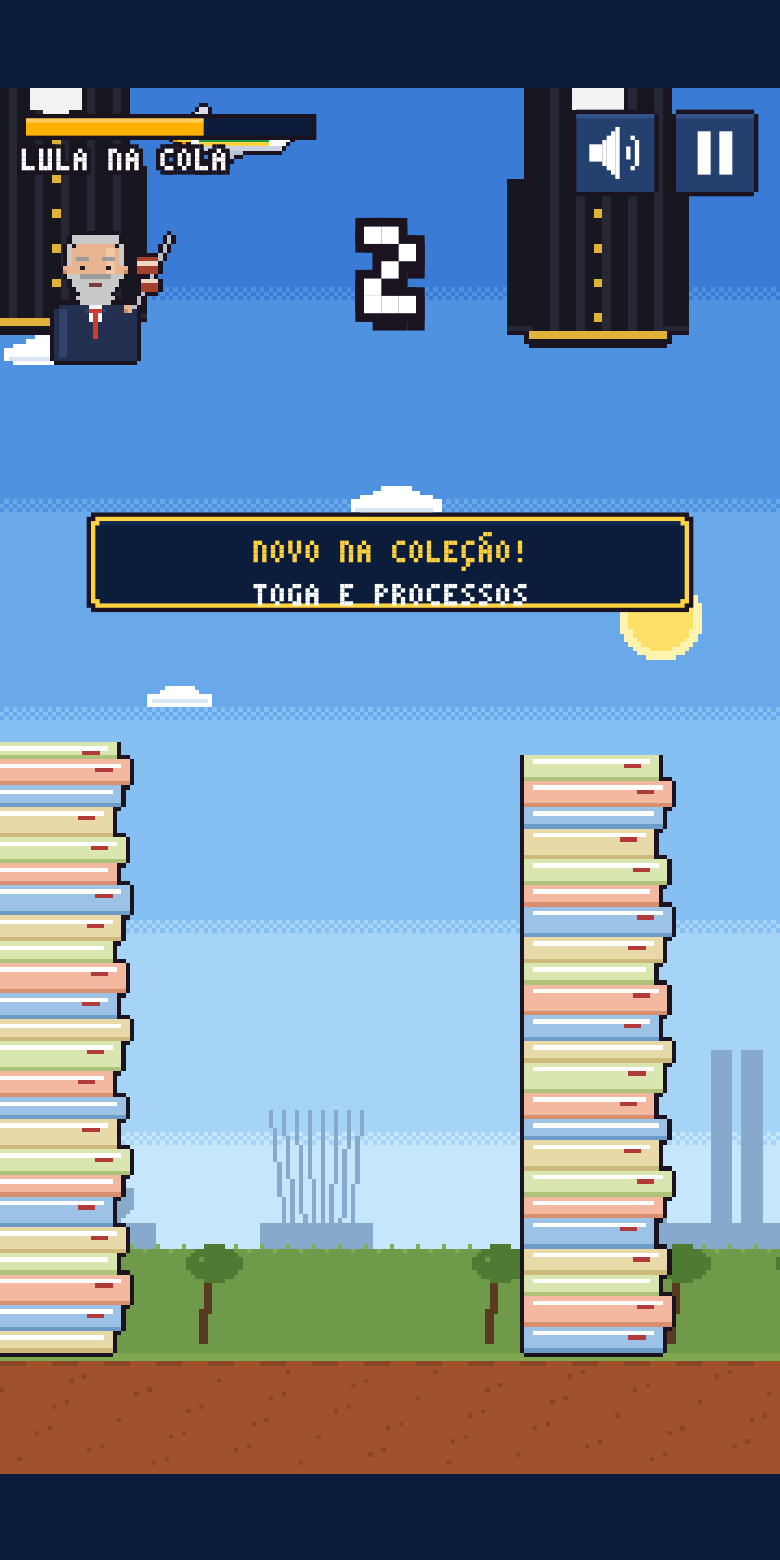
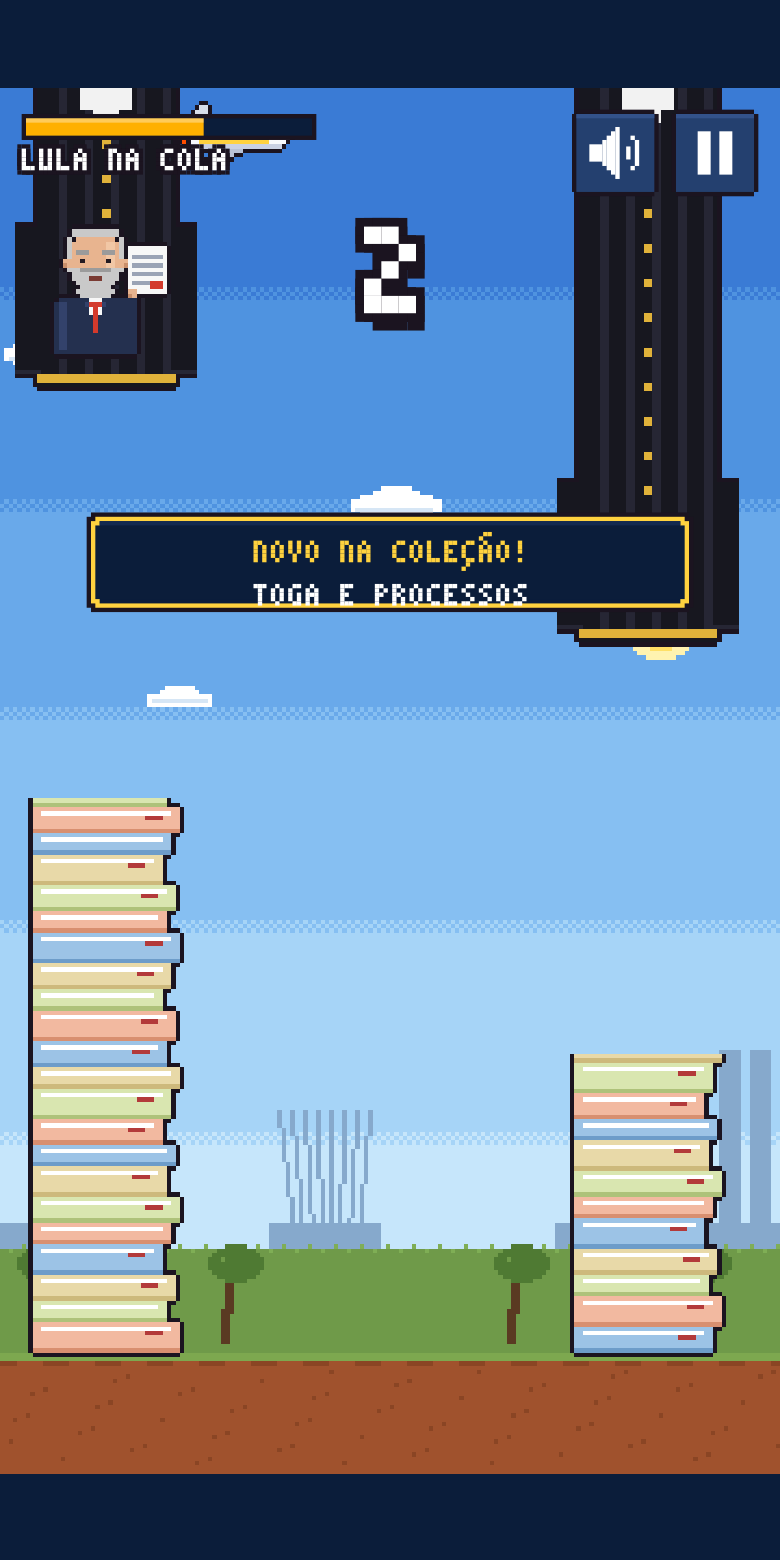
feat: Renan Santos com uma fralda em cada mão (LULA e FLÁVIO)
- variante mais larga, com nome escrito em cada fralda
- no jogo o desenho cresce para a esquerda, sem chegar antes no jatinho
- coleção e prints se ajustam à largura do desenho

Claude-Session: https://claude.ai/code/session_01WCVvmNwvtjTSbyXACY6ozY

diff --git a/src/entities/chaser-sprites.ts b/src/entities/chaser-sprites.ts
@@ -1,5 +1,5 @@
 import type { ChaserId } from '@server/types';
-import { pixelText } from '@/render/pixel-font';
+import { pixelText, textWidth } from '@/render/pixel-font';
 import { PixelGrid } from '@/render/pixel';
 
 /**
@@ -234,16 +234,33 @@ function renanGuitarra(): PixelGrid {
   return g.outline(C.outline);
 }
 
-function renanFralda(): PixelGrid {
-  const g = base('escuro', 'camiseta');
-  g.rect(23, 10, 10, 5, C.white).rect(24, 15, 8, 2, C.white).rect(26, 17, 4, 2, C.white); // fralda
-  g.rect(23, 10, 2, 2, C.blueLight).rect(31, 10, 2, 2, C.blueLight); // fitas
-  g.rect(25, 12, 6, 1, '#dfe6ee');
+/** Fralda com nome escrito, centrada em x (largura pelo tamanho do nome). */
+function fralda(g: PixelGrid, cx: number, y: number, name: string) {
+  const w = Math.max(16, textWidth(name) + 6);
+  const x = Math.round(cx - w / 2);
+  g.rect(x, y, w, 9, C.white).rect(x + 2, y + 9, w - 4, 2, C.white).rect(x + 5, y + 11, w - 10, 2, C.white);
+  g.rect(x, y, 3, 3, C.blueLight).rect(x + w - 3, y, 3, 3, C.blueLight); // fitas
+  g.rect(x + 1, y + 8, w - 2, 1, '#dfe6ee');
+  pixelText(g, name, x + 3, y + 2, '#2f6fd6');
   // cheirinho
-  g.px(25, 7, C.stink).px(26, 6, C.stink).px(25, 5, C.stink);
-  g.px(30, 7, C.stink).px(31, 6, C.stink).px(30, 5, C.stink);
-  g.rect(22, 21, 2, 4, C.green);
-  hand(g, 22, 19);
+  for (const sx of [x + 3, x + w - 5]) g.px(sx, y - 2, C.stink).px(sx + 1, y - 3, C.stink).px(sx, y - 4, C.stink);
+}
+
+/** Renan com uma fralda em cada mão: "LULA" e "FLÁVIO" (desenho mais largo). */
+function renanFralda(): PixelGrid {
+  const body = base('escuro', 'camiseta');
+  const OX = 24; // corpo deslocado para abrir espaço dos dois lados
+  const g = new PixelGrid(body.width + OX + 26, body.height + 2);
+  for (let y = 0; y < body.height; y++) for (let x = 0; x < body.width; x++) {
+    const c = body.get(x, y);
+    if (c) g.px(x + OX, y + 2, c);
+  }
+  // braços abertos segurando as fraldas
+  g.rect(OX + 3, 23, 4, 3, C.green).rect(OX + 24, 23, 4, 3, C.green);
+  hand(g, OX + 1, 22);
+  hand(g, OX + 28, 22);
+  fralda(g, 12, 12, 'LULA');
+  fralda(g, OX + 41, 12, 'FLÁVIO');
   return g.outline(C.outline);
 }
 
@@ -417,7 +434,7 @@ export const VARIANTS: Record<ChaserId, ChaserVariant[]> = {
   renan: [
     { id: 'livro', label: 'com o livro amarelo', build: renanLivro },
     { id: 'guitarra', label: 'guitarrista', build: renanGuitarra },
-    { id: 'fralda', label: 'com a fralda', build: renanFralda }
+    { id: 'fralda', label: 'com as fraldas', build: renanFralda }
   ],
   janja: [
     { id: 'aberta', label: 'com a Constituição aberta', build: janjaAberta },

diff --git a/tools/asset-sheet.ts b/tools/asset-sheet.ts
@@ -5,7 +5,7 @@
  */
 import { WORLD } from '@/core/config';
 import { CHASERS, Chaser, drawChaser } from '@/entities/chaser';
-import { VARIANTS } from '@/entities/chaser-sprites';
+import { VARIANTS, variantSprite } from '@/entities/chaser-sprites';
 import { Jet } from '@/entities/jet';
 import type { Obstacle } from '@/entities/obstacles';
 import { FerrisWheel, GATES, Gate, Pelicans, Searchlight } from '@/entities/obstacles-extra';
@@ -55,8 +55,9 @@ for (const [id, caption, vy] of jetStates) {
 // --- perseguidores: todas as variantes em pixel art (6x)
 for (const profile of CHASERS) {
   for (const variant of VARIANTS[profile.id]) {
-    figure(`perseguidor-${profile.id}-${variant.id}`, `${profile.name} ${variant.label}`, 40, 38, 6, (ctx) =>
-      drawChaser(ctx, profile, variant, 20, 19, 1)
+    const w = variantSprite(profile.id, variant).width + 4;
+    figure(`perseguidor-${profile.id}-${variant.id}`, `${profile.name} ${variant.label}`, w, 38, 6, (ctx) =>
+      drawChaser(ctx, profile, variant, w / 2, 19, 1)
     );
   }
 }

diff --git a/src/colecao/main.ts b/src/colecao/main.ts
@@ -26,10 +26,13 @@ function picture(item: CollectionItem): HTMLCanvasElement {
 
   if (item.category === 'chasers') {
     const [chaserId, variantId] = item.id.split(':') as [keyof typeof VARIANTS, string];
-    c.width = 44;
-    c.height = 40;
     const variant = VARIANTS[chaserId].find((v) => v.id === variantId)!;
-    put(variantSprite(chaserId, variant), 4, 3);
+    const sprite = variantSprite(chaserId, variant);
+    // largura mínima igual à dos outros; quem é mais largo (Renan das fraldas) ganha espaço
+    c.width = Math.max(44, sprite.width + 8);
+    c.height = 40;
+    ctx.imageSmoothingEnabled = false;
+    put(sprite, (c.width - sprite.width) / 2, 3);
   } else if (item.category === 'stops') {
     // cenário em tamanho da arte (180x320) mostrando a parte de baixo, onde fica a cidade
     c.width = 180;

diff --git a/src/ui/messages.ts b/src/ui/messages.ts
@@ -32,7 +32,7 @@ const VARIANT_LINES: Record<string, string[]> = {
   'pf:lanterna': ['A lanterna achou o jatinho no escuro.'],
   'renan:livro': ['Pego pelo cara do livro amarelo.'],
   'renan:guitarra': ['Renan Santos tocou o solo da sua captura.'],
-  'renan:fralda': ['Pego por alguém segurando uma fralda. Que fase.'],
+  'renan:fralda': ['Pego por alguém com uma fralda em cada mão. Que fase.', 'Uma fralda do Lula, outra do Flávio. E o jatinho no meio.'],
   'gonet:pasta': ['A pasta da PGR chegou primeiro.'],
   'gonet:carimbo': ['Carimbado e arquivado: fuga encerrada.'],
   'gonet:cruzado': ['Gonet só cruzou os braços e esperou.'],

diff --git a/src/entities/chaser.ts b/src/entities/chaser.ts
@@ -68,7 +68,9 @@ export class Chaser {
     const x = -12 + this.shown * (JET.x - 24 + 12);
     const y = Math.max(92, Math.min(WORLD.height - WORLD.groundHeight - 40, targetY)) + Math.sin(this.time * 4) * 6;
 
-    drawChaser(ctx, this.profile, this.variant, x, y);
+    // desenhos mais largos (Renan das fraldas) crescem para a esquerda, sem chegar antes no jatinho
+    const extra = Math.max(0, variantSprite(this.profile.id, this.variant).width - 36) * PX;
+    drawChaser(ctx, this.profile, this.variant, x - extra / 2, y);
 
     // barra de perigo no topo (pixel)
     const p = PX;

diff --git a/docs/ASSETS.md b/docs/ASSETS.md
@@ -41,7 +41,7 @@ Em cada item: **onde está no código** e um espaço para a sua opinião.
 | **Xandão** | ![](assets/perseguidor-xandao-toga.png)<br>de braços cruzados | ![](assets/perseguidor-xandao-caneta.png)<br>com a caneta | ![](assets/perseguidor-xandao-martelo.png)<br>com o martelo |
 | **Janja** | ![](assets/perseguidor-janja-aberta.png)<br>Constituição aberta | ![](assets/perseguidor-janja-apontando.png)<br>apontando a Constituição | ![](assets/perseguidor-janja-debaixo.png)<br>Constituição debaixo do braço |
 | **Agente da PF** | ![](assets/perseguidor-pf-colete.png)<br>de colete | ![](assets/perseguidor-pf-distintivo.png)<br>com o distintivo | ![](assets/perseguidor-pf-lanterna.png)<br>com a lanterna |
-| **Renan Santos** | ![](assets/perseguidor-renan-livro.png)<br>com o livro amarelo | ![](assets/perseguidor-renan-guitarra.png)<br>guitarrista | ![](assets/perseguidor-renan-fralda.png)<br>com a fralda |
+| **Renan Santos** | ![](assets/perseguidor-renan-livro.png)<br>com o livro amarelo | ![](assets/perseguidor-renan-guitarra.png)<br>guitarrista | ![](assets/perseguidor-renan-fralda.png)<br>com as fraldas (LULA e FLÁVIO) |
 | **Gonet** | ![](assets/perseguidor-gonet-pasta.png)<br>com a pasta da PGR | ![](assets/perseguidor-gonet-carimbo.png)<br>com o carimbo | ![](assets/perseguidor-gonet-cruzado.png)<br>de braços cruzados |
 | **Dino** | ![](assets/perseguidor-dino-toga.png)<br>de toga | ![](assets/perseguidor-dino-codigo.png)<br>com o Código Penal | ![](assets/perseguidor-dino-celular.png)<br>no celular |
 | **Agente da Interpol** | ![](assets/perseguidor-interpol-lupa.png)<br>com a lupa | ![](assets/perseguidor-interpol-cartaz.png)<br>com o alerta vermelho | ![](assets/perseguidor-interpol-binoculo.png)<br>de binóculo |

diff --git a/PLANO.md b/PLANO.md
@@ -115,7 +115,7 @@ tem mandado ([Band](https://www.band.com.br/politica/eleicoes/pt-aciona-stf-e-pe
 | Xandão | Brasília | de braços cruzados · com a caneta · com o martelo |
 | Janja | Brasília | com a Constituição aberta · apontando a Constituição · com ela debaixo do braço |
 | Agente da PF | Puerto Iguazú | de colete · com o distintivo · com a lanterna |
-| Renan Santos | Puerto Iguazú | com o livro amarelo · guitarrista · com a fralda |
+| Renan Santos | Puerto Iguazú | com o livro amarelo · guitarrista · com as fraldas ("LULA" numa mão, "FLÁVIO" na outra) |
 | Gonet | Guayaquil | com a pasta da PGR · com o carimbo · de braços cruzados |
 | Dino | Guayaquil | de toga · com o Código Penal · no celular |
 | Agente da Interpol | Miami | com a lupa · com o alerta vermelho · de binóculo |
